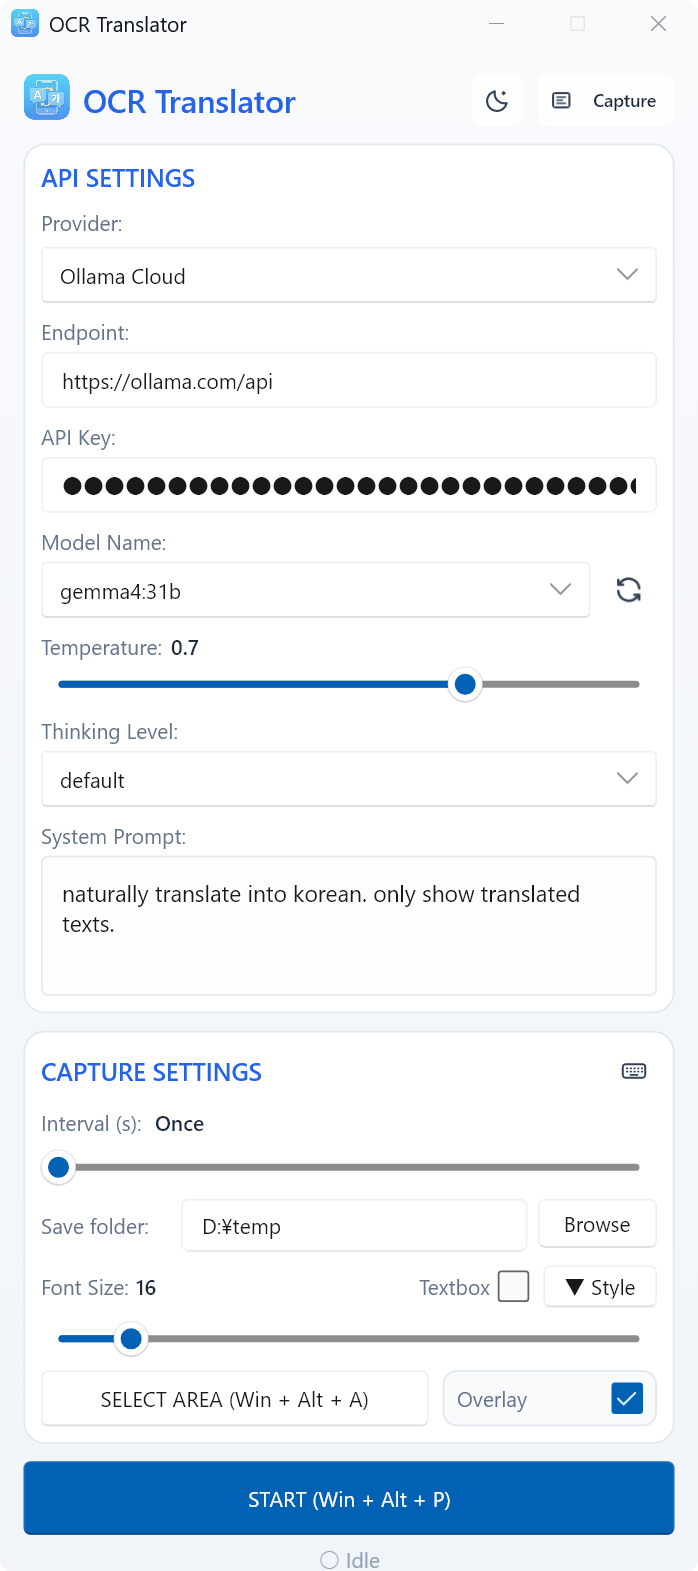
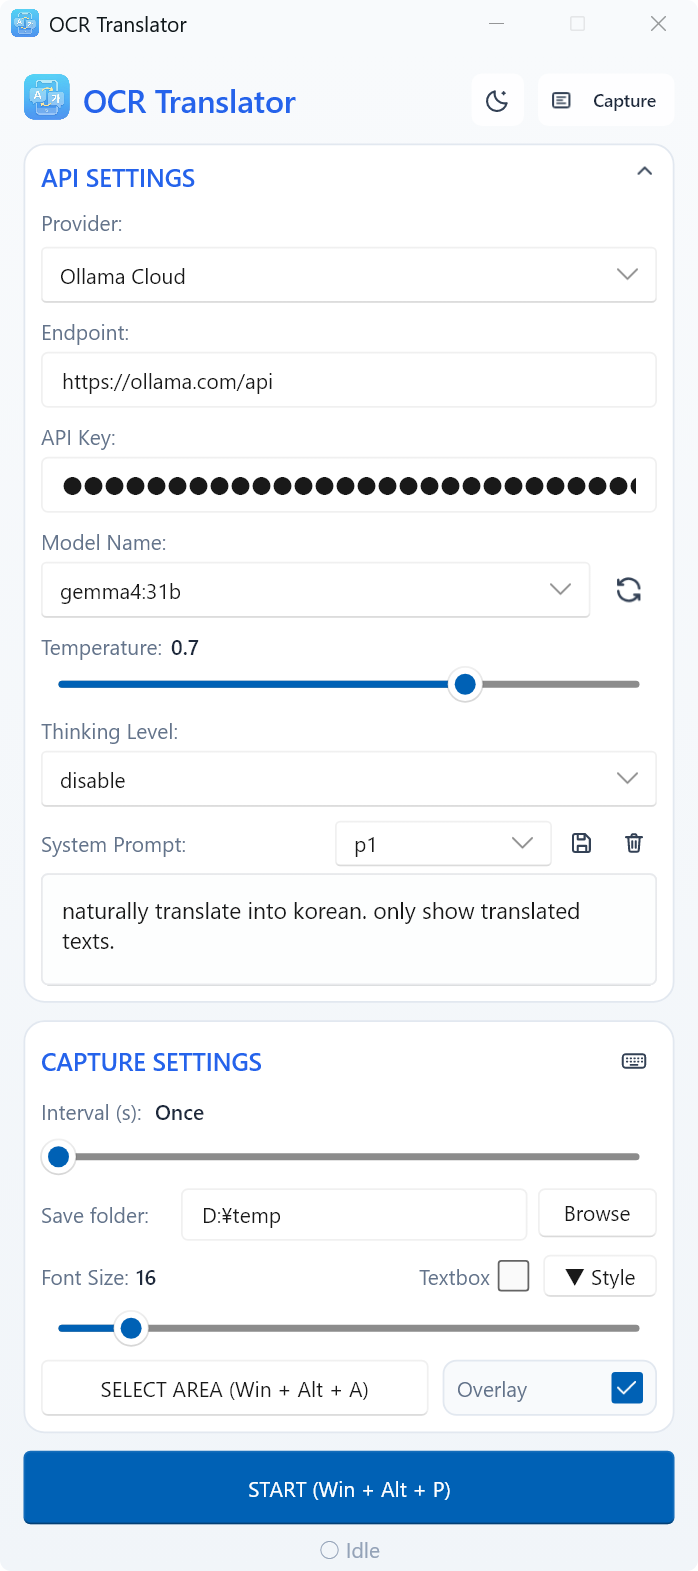
style save

diff --git a/src/settings.rs b/src/settings.rs
@@ -284,6 +284,14 @@ pub(crate) struct AppSettings {
     pub(crate) app_mode: String,
     pub(crate) dark_theme: bool,
     pub(crate) ocr_language: String,
+    pub(crate) base_font_size: f32,
+    pub(crate) use_textbox: bool,
+    pub(crate) overlay_bg_color: String,
+    pub(crate) overlay_text_color: String,
+    pub(crate) overlay_bg_opacity: f32,
+    pub(crate) style_panel_open: bool,
+    pub(crate) api_settings_collapsed: bool,
+    pub(crate) api_settings_saved_height: f32,
     pub(crate) shortcuts: ShortcutConfig,
 }
 
@@ -454,6 +462,20 @@ fn ini_bool(
     )
 }
 
+fn ini_float(
+    values: &HashMap<(String, String), String>,
+    section: &str,
+    key: &str,
+    fallback: f32,
+) -> f32 {
+    ini_value(values, section, key, fallback.to_string())
+        .trim()
+        .parse::<f32>()
+        .ok()
+        .filter(|value| value.is_finite())
+        .unwrap_or(fallback)
+}
+
 fn load_legacy_provider_config() -> ProviderConfig {
     if let Some(path) = legacy_provider_config_path() {
         if let Ok(json) = std::fs::read_to_string(&path) {
@@ -476,6 +498,14 @@ pub(crate) fn load_app_settings() -> AppSettings {
         app_mode: "ocr".to_string(),
         dark_theme: false,
         ocr_language: String::new(),
+        base_font_size: 16.0,
+        use_textbox: false,
+        overlay_bg_color: "#ffffff".to_string(),
+        overlay_text_color: "#1e293b".to_string(),
+        overlay_bg_opacity: 0.9,
+        style_panel_open: false,
+        api_settings_collapsed: false,
+        api_settings_saved_height: 0.0,
         shortcuts: ShortcutConfig::default(),
     };
 
@@ -552,6 +582,40 @@ pub(crate) fn load_app_settings() -> AppSettings {
             settings.app_mode = ini_value(&values, "app", "app_mode", settings.app_mode);
             settings.dark_theme = ini_bool(&values, "app", "dark_theme", settings.dark_theme);
             settings.ocr_language = ini_value(&values, "app", "ocr_language", settings.ocr_language);
+            settings.base_font_size =
+                ini_float(&values, "style", "base_font_size", settings.base_font_size)
+                    .clamp(8.0, 72.0);
+            settings.use_textbox = ini_bool(&values, "style", "use_textbox", settings.use_textbox);
+            settings.overlay_bg_color = ini_value(
+                &values,
+                "style",
+                "overlay_bg_color",
+                settings.overlay_bg_color,
+            );
+            settings.overlay_text_color = ini_value(
+                &values,
+                "style",
+                "overlay_text_color",
+                settings.overlay_text_color,
+            );
+            settings.overlay_bg_opacity =
+                ini_float(&values, "style", "overlay_bg_opacity", settings.overlay_bg_opacity)
+                    .clamp(0.1, 1.0);
+            settings.style_panel_open =
+                ini_bool(&values, "ui", "style_panel_open", settings.style_panel_open);
+            settings.api_settings_collapsed = ini_bool(
+                &values,
+                "ui",
+                "api_settings_collapsed",
+                settings.api_settings_collapsed,
+            );
+            settings.api_settings_saved_height = ini_float(
+                &values,
+                "ui",
+                "api_settings_saved_height",
+                settings.api_settings_saved_height,
+            )
+            .clamp(0.0, 1000.0);
             settings.shortcuts.select_area = ini_value(&values, "shortcuts", "select_area", settings.shortcuts.select_area);
             settings.shortcuts.start = ini_value(&values, "shortcuts", "start", settings.shortcuts.start);
             settings.shortcuts.toolbar1_action = ini_value(&values, "shortcuts", "toolbar1_action", settings.shortcuts.toolbar1_action);
@@ -567,7 +631,7 @@ pub(crate) fn load_app_settings() -> AppSettings {
 
 pub(crate) fn save_app_settings(settings: &AppSettings) {
     let contents = format!(
-        "[provider]\nprovider={}\nlm_model={}\ngemini_model={}\ncerebras_model={}\nollama_model={}\nollama_cloud_model={}\nunsloth_model={}\nthinking_level={}\nopencode_go_model={}\nopencode_zen_model={}\n\n[app]\ncapture_folder={}\nsystem_prompt={}\nsystem_prompt_presets={}\napp_mode={}\ndark_theme={}\nocr_language={}\n\n[shortcuts]\nselect_area={}\nstart={}\ntoolbar1_action={}\ntoolbar1_key={}\ntoolbar2_action={}\ntoolbar2_key={}\ntoolbar3_action={}\ntoolbar3_key={}\n",
+        "[provider]\nprovider={}\nlm_model={}\ngemini_model={}\ncerebras_model={}\nollama_model={}\nollama_cloud_model={}\nunsloth_model={}\nthinking_level={}\nopencode_go_model={}\nopencode_zen_model={}\n\n[app]\ncapture_folder={}\nsystem_prompt={}\nsystem_prompt_presets={}\napp_mode={}\ndark_theme={}\nocr_language={}\n\n[style]\nbase_font_size={}\nuse_textbox={}\noverlay_bg_color={}\noverlay_text_color={}\noverlay_bg_opacity={}\n\n[ui]\nstyle_panel_open={}\napi_settings_collapsed={}\napi_settings_saved_height={}\n\n[shortcuts]\nselect_area={}\nstart={}\ntoolbar1_action={}\ntoolbar1_key={}\ntoolbar2_action={}\ntoolbar2_key={}\ntoolbar3_action={}\ntoolbar3_key={}\n",
         ini_escape(&settings.provider.provider),
         ini_escape(&settings.provider.lm_model),
         ini_escape(&settings.provider.gemini_model),
@@ -584,6 +648,14 @@ pub(crate) fn save_app_settings(settings: &AppSettings) {
         ini_escape(&settings.app_mode),
         if settings.dark_theme { "true" } else { "false" },
         ini_escape(settings.ocr_language.trim()),
+        settings.base_font_size,
+        if settings.use_textbox { "true" } else { "false" },
+        ini_escape(&settings.overlay_bg_color),
+        ini_escape(&settings.overlay_text_color),
+        settings.overlay_bg_opacity,
+        if settings.style_panel_open { "true" } else { "false" },
+        if settings.api_settings_collapsed { "true" } else { "false" },
+        settings.api_settings_saved_height,
         ini_escape(&settings.shortcuts.select_area),
         ini_escape(&settings.shortcuts.start),
         ini_escape(&settings.shortcuts.toolbar1_action),
@@ -660,6 +732,53 @@ pub(crate) fn save_ocr_language(language: &str) {
     let mut settings = load_app_settings();
     settings.ocr_language = language.trim().to_string();
     save_app_settings(&settings);
+}
+
+/// Persists the Style panel values so the overlay keeps its last look across restarts.
+pub(crate) fn save_style_settings(
+    base_font_size: f32,
+    use_textbox: bool,
+    overlay_bg_color: &str,
+    overlay_text_color: &str,
+    overlay_bg_opacity: f32,
+) {
+    let mut settings = load_app_settings();
+    settings.base_font_size = base_font_size.clamp(8.0, 72.0);
+    settings.use_textbox = use_textbox;
+    settings.overlay_bg_color = overlay_bg_color.to_string();
+    settings.overlay_text_color = overlay_text_color.to_string();
+    settings.overlay_bg_opacity = overlay_bg_opacity.clamp(0.1, 1.0);
+    save_app_settings(&settings);
+}
+
+/// Persists the fold states of the style panel and the API settings card.
+pub(crate) fn save_ui_fold_states(
+    style_panel_open: bool,
+    api_settings_collapsed: bool,
+    api_settings_saved_height: f32,
+) {
+    let mut settings = load_app_settings();
+    settings.style_panel_open = style_panel_open;
+    settings.api_settings_collapsed = api_settings_collapsed;
+    settings.api_settings_saved_height = api_settings_saved_height.clamp(0.0, 1000.0);
+    save_app_settings(&settings);
+}
+
+/// Formats a Slint color as `#rrggbb` for the settings file.
+pub(crate) fn color_to_hex(color: slint::Color) -> String {
+    format!("#{:02x}{:02x}{:02x}", color.red(), color.green(), color.blue())
+}
+
+/// Parses a `#rrggbb` color from the settings file. Returns `None` for other input.
+pub(crate) fn color_from_hex(value: &str) -> Option<slint::Color> {
+    let hex = value.trim().trim_start_matches('#');
+    if hex.len() != 6 || !hex.is_ascii() {
+        return None;
+    }
+    let red = u8::from_str_radix(&hex[0..2], 16).ok()?;
+    let green = u8::from_str_radix(&hex[2..4], 16).ok()?;
+    let blue = u8::from_str_radix(&hex[4..6], 16).ok()?;
+    Some(slint::Color::from_rgb_u8(red, green, blue))
 }
 
 /// Loads just the shortcut configuration.

diff --git a/src/window_mode.rs b/src/window_mode.rs
@@ -4,7 +4,7 @@ use crate::capture_workflow::{
 };
 use crate::settings::{
     load_system_prompt_presets, save_app_mode, save_capture_folder, save_dark_theme,
-    save_system_prompt, save_system_prompt_presets, PromptPreset,
+    save_system_prompt, save_system_prompt_presets, save_ui_fold_states, PromptPreset,
 };
 use crate::state::AppState;
 use crate::{
@@ -14,6 +14,15 @@ use crate::{
 use slint::ComponentHandle;
 use std::sync::{Arc, Mutex};
 use std::time::Duration;
+
+/// Persists the fold states of the style panel and the API settings card.
+fn persist_fold_states(main: &MainWindow) {
+    save_ui_fold_states(
+        main.get_show_style_settings(),
+        main.get_api_settings_collapsed(),
+        main.get_api_settings_saved_height(),
+    );
+}
 
 /// Replaces the preset combo box model with the given preset names.
 fn sync_preset_options(main: &MainWindow, presets: &[PromptPreset]) {
@@ -139,6 +148,7 @@ pub(crate) fn register_callbacks(
     let main_weak_style_panel = main_window.as_weak();
     main_window.on_style_panel_toggled(move |_is_open| {
         if let Some(main) = main_weak_style_panel.upgrade() {
+            persist_fold_states(&main);
             sync_ocr_window_size(&main);
         }
     });
@@ -148,6 +158,7 @@ pub(crate) fn register_callbacks(
     let main_weak_api_fold = main_window.as_weak();
     main_window.on_api_settings_toggled(move |_collapsed| {
         if let Some(main) = main_weak_api_fold.upgrade() {
+            persist_fold_states(&main);
             sync_ocr_window_size(&main);
         }
     });

diff --git a/src/ocr_ui.rs b/src/ocr_ui.rs
@@ -88,6 +88,16 @@ pub(crate) fn register_callbacks(
             let mut s = state_style.lock().unwrap();
             s.use_textbox = use_textbox;
         }
+        // Persist the style values so the next launch restores the last look.
+        if let Some(main) = main_weak_style.upgrade() {
+            save_style_settings(
+                main.get_base_font_size(),
+                use_textbox,
+                &color_to_hex(main.get_overlay_bg_color()),
+                &color_to_hex(main.get_overlay_text_color()),
+                main.get_overlay_bg_opacity(),
+            );
+        }
         if let (Some(main), Some(overlay), Some(textbox)) = (
             main_weak_style.upgrade(),
             overlay_weak_style.upgrade(),
@@ -174,6 +184,13 @@ pub(crate) fn register_callbacks(
             s.use_textbox = false;
 
             main.set_use_textbox(false);
+            save_style_settings(
+                main.get_base_font_size(),
+                false,
+                &color_to_hex(main.get_overlay_bg_color()),
+                &color_to_hex(main.get_overlay_text_color()),
+                main.get_overlay_bg_opacity(),
+            );
             overlay.set_is_textbox_mode(false);
             overlay.set_bg_opacity(main.get_overlay_bg_opacity());
             overlay.set_hide_text(false);

diff --git a/src/startup.rs b/src/startup.rs
@@ -325,7 +325,21 @@ pub(crate) fn initialize_ui(
             .map_or(-1, |index| index as i32),
     );
     main_window.set_interval(0.0);
-    main_window.set_base_font_size(16.0);
+    // Restore the Style panel values so the overlay keeps its last look across restarts.
+    main_window.set_base_font_size(initial_settings.base_font_size);
+    main_window.set_use_textbox(initial_settings.use_textbox);
+    if let Some(color) = color_from_hex(&initial_settings.overlay_bg_color) {
+        main_window.set_overlay_bg_color(color);
+    }
+    if let Some(color) = color_from_hex(&initial_settings.overlay_text_color) {
+        main_window.set_overlay_text_color(color);
+    }
+    main_window.set_overlay_bg_opacity(initial_settings.overlay_bg_opacity);
+    // Restore the fold states of the style panel and the API card, then re-apply the window size.
+    main_window.set_show_style_settings(initial_settings.style_panel_open);
+    main_window.set_api_settings_collapsed(initial_settings.api_settings_collapsed);
+    main_window.set_api_settings_saved_height(initial_settings.api_settings_saved_height);
+    sync_ocr_window_size(main_window);
 
     // Initial Model Sync (Localhost/LM Studio)
     let main_weak_startup = main_window.as_weak();

diff --git a/README.md b/README.md
@@ -2,7 +2,7 @@
 
 A real-time screen OCR, translation and capture tool built with Rust and Slint powered by VLM (Vision-Language Model).
 
-<img src="screenshot1.png" alt="screenshot1" width="50%">
+<img src="screenshot1.png" alt="screenshot1" width="49%"> <img src="screenshot3.png" alt="screenshot3" width="49%">
 
 Capture toolbar (dark theme)
 
